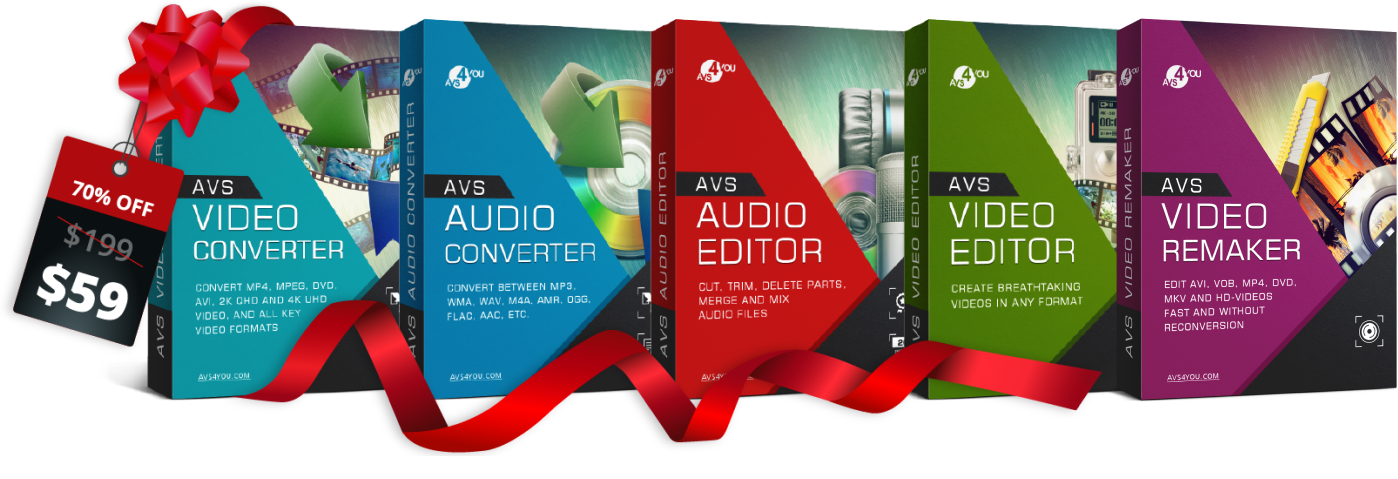
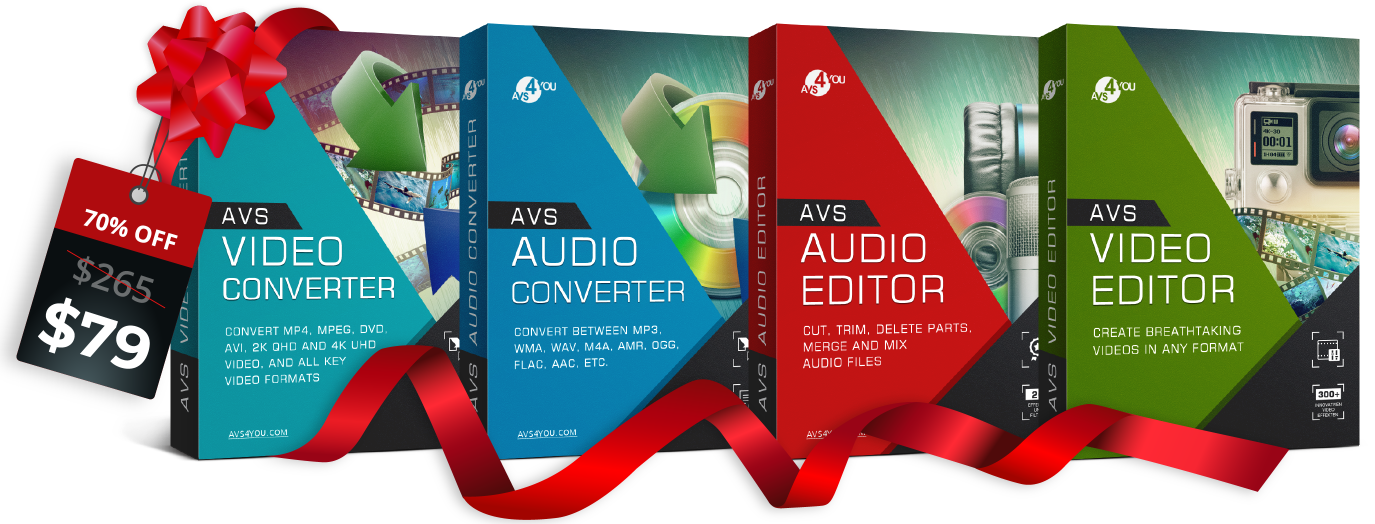
updated styles special-offer.aspx

diff --git a/Client/src/pages/special-offer.aspx.js b/Client/src/pages/special-offer.aspx.js
@@ -40,6 +40,7 @@ class SpecialOffer extends React.PureComponent {
 render(){
     return (
       <Layout 
+        headerIsDisabled={true}
         className="special-offer" 
         pageContext={this.props.pageContext} 
         t={this.props.t}
@@ -47,7 +48,8 @@ render(){
         metaDescription=""
         metaKeywords=""
       >
-
+        <link href="https://fonts.googleapis.com/css?family=Montserrat:100,100i,200,200i,300,400&display=swap" rel="stylesheet"></link>
+<div className="header-specail-offer"></div>
 <div className="headerSpecialOffer">
     <div className="line-mobile"></div>
       <div className="content-header">
@@ -61,7 +63,7 @@ render(){
           <div className="text-grab">
           <Text fontSize={64} fontWeight={700} color="#fff" className="bodyGrab">Grab</Text>
             <SaleWrapper className="bodyOff">
-            <Text fontSize={130} fontWeight={700} color="#ffffff" className="precent-off">70</Text> 
+            <Text fontSize={130} fontWeight={700} fontFamily={'Montserrat'} color="#ffffff" className="precent-off">70</Text> 
               <SaleWrapper className="precent">
                 <Text fontSize={46} fontWeight={700} color="#ffffff" className="text-off">%</Text> 
                 <Text fontSize={46} fontWeight={700} color="#ffffff" className="letter-off">ff</Text>
@@ -69,39 +71,34 @@ render(){
             </SaleWrapper> 
             <div className="text-avs">
               <Text fontSize={24} fontWeight={700} color="#fff" className="text-header-avs">on</Text>
-              <Text fontSize={46} fontWeight={700} className="textHeader">AVS4YOU</Text>
+              <Text fontSize={46} fontWeight={700} className="textHeader-summer">AVS4YOU</Text>
             </div>
-            <Text fontSize={46} fontWeight={700} color="#fff" className="textMultiHeader">Multimedia Suite</Text>
+            <Text fontSize={46} fontWeight={700} color="#fff" className="textMultiHeader-summer">Multimedia Suite</Text>
             <div className="button-block">
-              <Button className="headerButton button-mobile" 
-                      secondaryText={this.props.secondaryText && this.props.secondaryText} 
-                      textTransform="uppercase">
-                      <Link to="/installed-pack.aspx" target="_blank" rel="noreferrer noopener" className="style-button"> download now </Link>
-              </Button>
               <div className="blockButton"></div>
-              <RedButton className="headerButton" 
+              <RedButton className="headerButtonSummer" 
                       secondaryText={this.props.secondaryText && this.props.secondaryText} 
                       textTransform="uppercase">
                       <Link to="/register.aspx" target="_blank" rel="noreferrer noopener" className="style-button"> buy now </Link>
               </RedButton>
             </div>
-            <Text fontSize={16} fontWeight={400} color="#fff" className="mainHeaderComment">The offer is valid till December 26, 2021</Text>
+            <Text fontSize={16} fontWeight={400} color="#fff" className="mainHeaderComment">The offer is valid during 24 hours</Text>
       </div>
     </div>
   </div>
 </div>
           <div className="bodyWrapper">
             <Text fontSize={46} fontWeight={800} className="bodyHeader" as="h1">AVS4YOU Full Pack</Text>
-            <Text fontSize={36} fontWeight={700} className="mainBodyTitle">Get 70% OFF on AVS4YOU Full Pack <span className="text-red">$59</span>  <span className="text-line-through">$199</span></Text>
+            <Text fontSize={36} fontWeight={700} className="mainBodyTitle">Get 70% OFF on AVS4YOU Full Pack <span className="text-red">$79</span>  <span className="text-line-through">$265</span></Text>
             <Text fontSize={24} fontWeight={400} className="mainBodyComment">A complete set of programs for working with video files, slideshows and soundtracks. Manage your video/audio collections, improve their quality and create stunning video projects!</Text>
             <div className="special-buttons">
-              <Button className="specialButton button-mobile" 
+              <Button className="specialButtonSummer button-mobile" 
                       secondaryText={this.props.secondaryText && this.props.secondaryText} 
                       textTransform="uppercase">
                       <Link to="/installed-pack.aspx" target="_blank" rel="noreferrer noopener" className="style-button"> download now </Link>
               </Button>
               <div className="blockButton"></div>
-              <RedButton className="specialButton" 
+              <RedButton className="specialButtonSummer" 
                       secondaryText={this.props.secondaryText && this.props.secondaryText} 
                       textTransform="uppercase">
                       <Link to="/register.aspx" target="_blank" rel="noreferrer noopener" className="style-button"> buy now </Link>

diff --git a/Client/src/styles/avs-special-offer.less b/Client/src/styles/avs-special-offer.less
@@ -49,6 +49,13 @@
         background-repeat: no-repeat;
         position: relative;
         background-position-y: 50%;
+        font-family: 'Montserrat', sans-serif;
+    }
+
+    .textMultiHeader-summer {
+        color: #FFE600;
+        background: transparent;
+        font-family: 'Montserrat', sans-serif;
     }
 
 .text-header {
@@ -60,12 +67,22 @@
         -webkit-background-clip: text;
         -webkit-text-fill-color: transparent;
         color: #EA1313;
+        font-family: 'Montserrat', sans-serif;
       }
+
+      
+    .textHeader-summer {
+        color: #FFE600;
+        background: transparent;
+        font-family: 'Montserrat', sans-serif;
+    }
+      
     
     .text-header-avs {
         font-size: 24px;
         text-transform: uppercase;
         color: #ffffff;
+        font-family: 'Montserrat', sans-serif;
     }
 
     .text-grab {
@@ -90,8 +107,21 @@
         margin: 50px 0 24px 0;
     }
 
+    .headerButtonSummer {
+        margin: 50px 0 24px 0;
+        padding: 10px 30px;
+        border-radius: 28px;
+        background: #FFE600;
+
+        a {
+            color: #013A47;
+            font-weight: 700;
+        }
+    }
+
     .bodyGrab {
         text-transform: uppercase;
+        font-family: 'Montserrat', sans-serif;
     }
 
     .bodyOff {
@@ -100,15 +130,19 @@
         margin-left: 50px;
         margin-top: -30px;
         align-items: flex-start;
+        font-family: 'Montserrat', sans-serif;
         .text-off {
             font-size: 80px;
             line-height: 143px;
+            font-family: 'Montserrat', sans-serif;
         }
         .letter-off {
-            font-size: 46px;
+            font-size: 40px;
             text-transform: uppercase;
             top: 37px;
             right: 113px;
+            font-family: 'Montserrat', sans-serif;
+            font-weight: 700;
         }
     }
     }
@@ -184,6 +218,12 @@
         margin: 54px 0;
     }
 
+    .specialButtonSummer {
+        margin: 50px 0 24px 0;
+        padding: 10px 30px;
+        border-radius: 28px;
+    }
+
     .style-button {
         text-decoration: none;
         color: #fff;
@@ -191,6 +231,8 @@
 
     .mainHeaderComment {
         text-transform: none !important;
+        font-family: 'Montserrat', sans-serif;
+        font-weight: 400;
     }
 
     .buttonsWrapper {
@@ -318,6 +360,9 @@
 
     .precent-off {
         margin-bottom: -20px !important;
+        font-size: 130;
+        font-weight: 700;
+        font-family: 'Montserrat', sans-serif;
     }
 
     .textSpecial {
